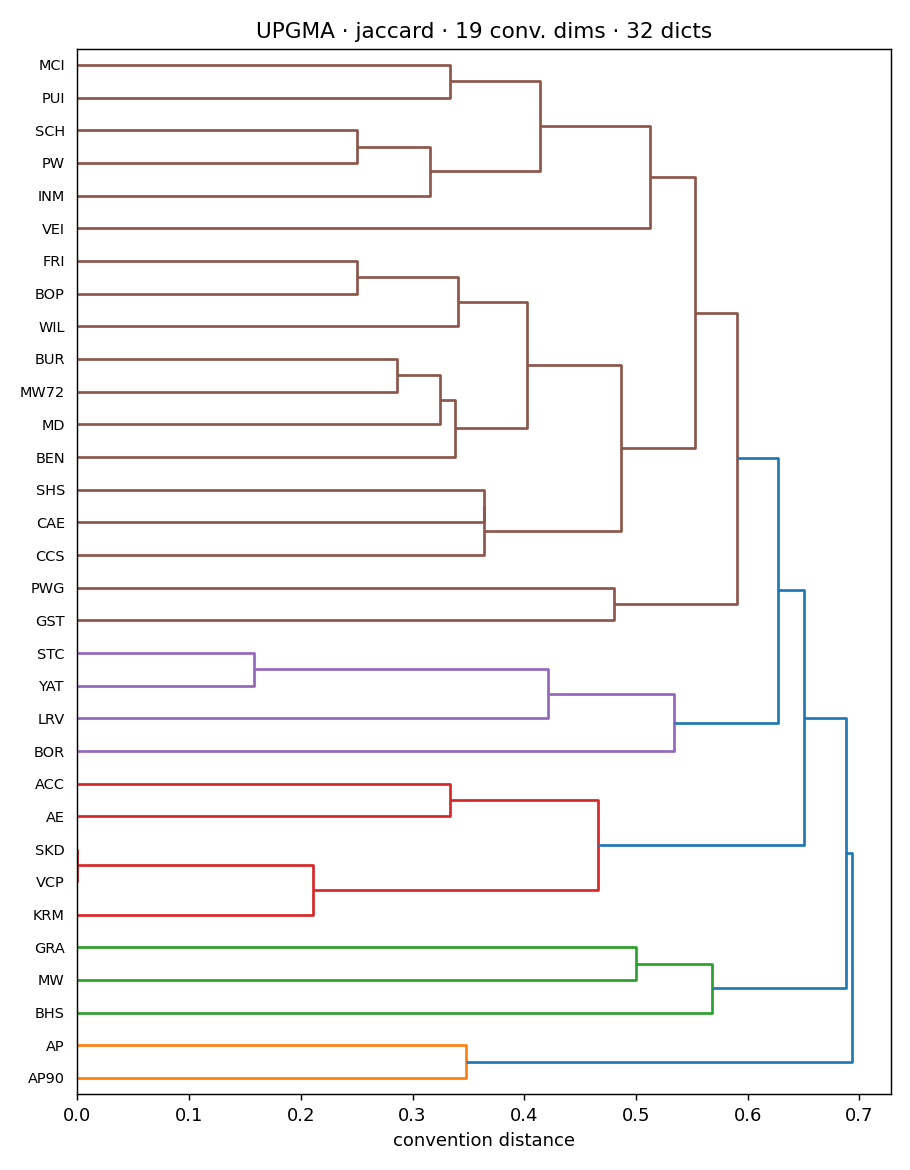
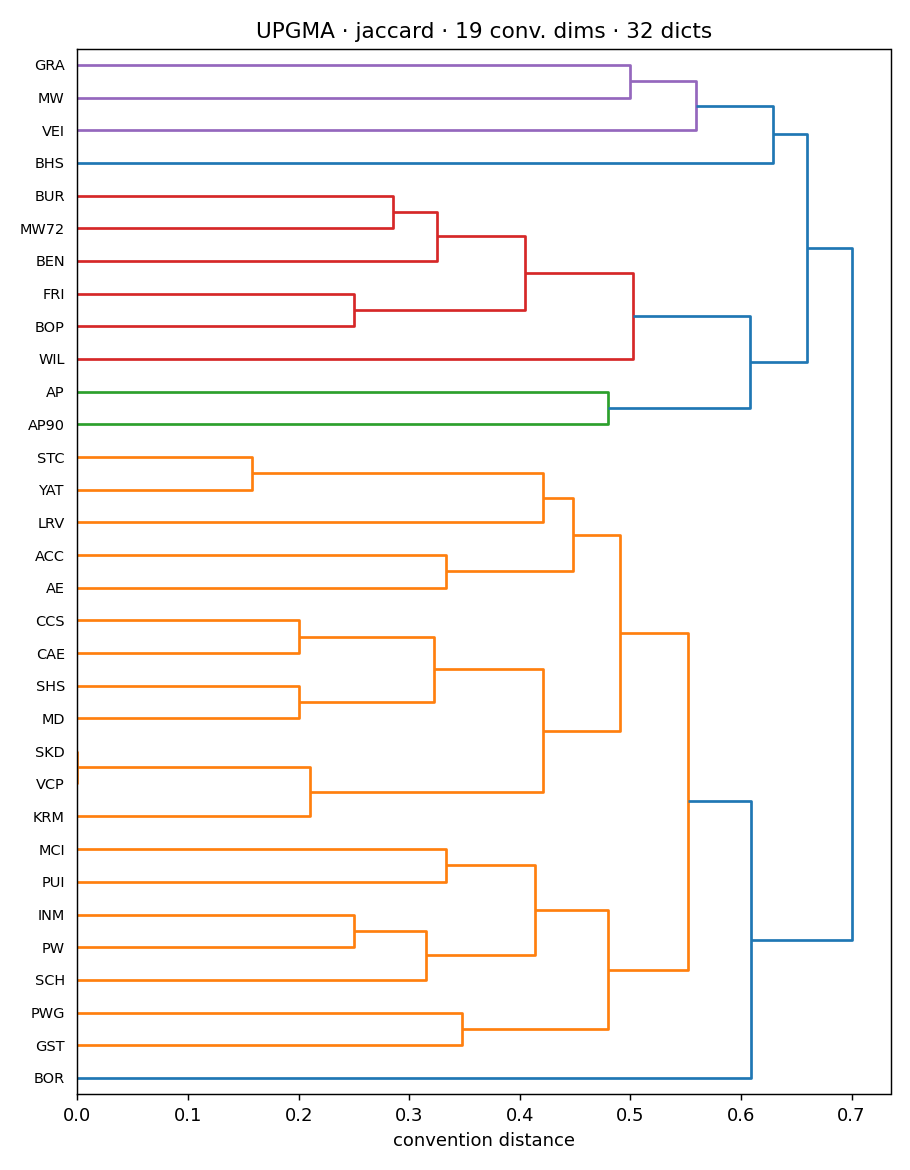
ai-wip: fix {%...%}-as-language-tag bug (dims 21/27); YAT-STC is real convergent minimalism
Chasing the YAT<->STC nearest-neighbour pairing (d=0.059) showed it is genuine editorial convergence (both are citation-free, etymology-free bilingual glossaries), not descent -- a homoplasy caveat for the paper. The chase also exposed a regex that counted {%...%} italic glosses as foreign-language tags, inflating loanword/source-language dims for every bilingual dict. Removed {%...%} from lang_tag; kept genuine <lang>/<gk>/<ar>/<zd> + cognate-language abbreviations. Re-ran: all 6 known lineages still cohere; Wilson tightened 0.37->0.30, Cappeller 0.22->0.11. Adds scripts/L0/diag_compare.py.

diff --git a/scripts/L0/diag_compare.py b/scripts/L0/diag_compare.py
@@ -1,0 +1,56 @@
+"""Diagnostic: dump raw extractor counters + sample entries for a few dicts,
+to judge whether a convention-distance pairing is real signal or weak-extraction
+collapse toward an 'everything-absent' profile."""
+
+import os
+import sys
+sys.path.insert(0, os.path.dirname(os.path.abspath(__file__)))
+sys.stdout.reconfigure(encoding="utf-8")
+
+from s2_fingerprint import extract, iter_entries, SRC_ROOT, CAP  # noqa
+
+CODES = ["WIL", "YAT", "STC", "PW", "AP90"]
+KEYS = ["n", "k2_sep_any", "k2_total", "num_arabic", "num_roman", "num_alpha",
+        "sep_semicolon", "sep_comma", "ls_entries", "ls_count", "etym_entries",
+        "lang_tag", "xref_explicit", "skt_tokens", "skt_accent", "panini",
+        "gram_abbrev", "gram_full", "gram_skt", "ind_ind", "subsense"]
+
+
+def main():
+    print(f"{'metric':16s}" + "".join(f"{c:>9s}" for c in CODES))
+    data = {}
+    for c in CODES:
+        path = os.path.join(SRC_ROOT, c.lower(), c.lower() + ".txt")
+        data[c] = extract(path)
+    for k in KEYS:
+        row = f"{k:16s}"
+        for c in CODES:
+            v = data[c][k]
+            n = max(data[c]["n"], 1)
+            # show as rate where it's a per-entry count
+            if k in ("n", "k2_total", "ls_count", "skt_tokens"):
+                row += f"{v:>9d}"
+            else:
+                row += f"{v/n:>9.3f}"
+        print(row)
+    print("\netym marker types per dict:")
+    for c in CODES:
+        print(f"  {c:5s} {sorted(data[c]['etym_markers'])}")
+
+    print("\n--- first 2 real entries (body) per dict ---")
+    for c in CODES:
+        path = os.path.join(SRC_ROOT, c.lower(), c.lower() + ".txt")
+        print(f"\n===== {c} =====")
+        shown = 0
+        for k1, k2, body in iter_entries(path, CAP):
+            b = body.strip()
+            if not b:
+                continue
+            print(f"[k1={k1} k2={k2}] {b[:220].replace(chr(10), ' ')}")
+            shown += 1
+            if shown >= 2:
+                break
+
+
+if __name__ == "__main__":
+    main()

diff --git a/scripts/L0/s2_fingerprint.py b/scripts/L0/s2_fingerprint.py
@@ -88,7 +88,11 @@ RX = {
     "etym_fr": re.compile(r"\bfr\.\s"),
     "etym_bracket": re.compile(r"\[\{#(.*?)#\}", re.S),
     "xref": re.compile(r"\bq\.v\.|<ab>\s*cf\.|\bcf\.\s|\b[Ss]ee\s\{#|\bs\.\s\{#"),
-    "lang_tag": re.compile(r"<lang\b|<gk>|<ar>|\{%[^%]+%\}|\b(?:Gk|Lat|Goth|Germ|Eng|Pers|Arab|Zd|Lith|Slav|Gr)\."),
+    # genuine source-language / cognate tagging only.
+    # NB: {%...%} is the universal *italic-gloss* convention (English/French/German/
+    # Latin target glosses) -- NOT a language tag -- so it must be excluded, else
+    # every bilingual glossary spuriously scores "loanword tagged".
+    "lang_tag": re.compile(r"<lang\b|<gk>|<ar>|<zd>|\b(?:Gk|Lat|Goth|Germ|Pers|Arab|Lith|Slav|Zend)\."),
     "ind_ind": re.compile(r"(?:<lex>\s*)?\bindecl?\."),
     "ind_inv": re.compile(r"\binv\."),
     "ind_nipata": re.compile(r"nipAta|\bnip\."),

diff --git a/.ai_state.md b/.ai_state.md
@@ -23,7 +23,11 @@
 - Note: KCH (Kochergina) is NOT in the 35-dict L0 subset.
 - **2026-05-27 preview validation**: built the first REAL convention cladogram (`scripts/L0/preview_tree.py` → `data/L0/preview/`) on the 19 informative dims × 32 dicts, missing-aware Gower + Jaccard, UPGMA + NJ. **All 6 known lineages came out tighter than the global mean (0.433)**: VCP/SKD=0.000, AP90/AP=0.210, CAE/CCS=0.222, Petersburg-German=0.353, Wilson=0.370, MW72/MW=0.389. Nearest-neighbour pairs recover AP90↔AP, VCP↔SKD, PW↔SCH, CAE↔SHS. So the 19 auto dims already carry real phylogenetic signal even before the Patel dims are added. Surprises to revisit after annotation: YAT↔STC (d=0.059), MW grouping with GRA, BHS near AP90. NOT the gated Stage 3/4 (preflight needs cells_unknown=0).
 
+- **2026-05-27 YAT↔STC chase**: investigated why YAT (Yates 1846 Skt-Eng, a Wilson digest) and STC (Stchoupak 1932 Skt-Fra, a Petersburg digest) were nearest convention-neighbours (d=0.059). Verdict: **genuine, not artifact** — both are minimalist bilingual glossaries (0% `<ls>` citations, 0% etymology, no cognate tags, abbreviated grammar, segmented headwords). **Methodological lesson: the convention fingerprint measures editorial REGISTER, which converges across unrelated lineages (homoplasy) — convention-distance ≠ descent.** This argues for combining it with the lemma-overlap Jaccard (which *does* capture descent: WIL→YAT was 91% containment in sanhw1). Needs a stated caveat in the paper. The chase also found + fixed a real bug: `{%...%}` italic-gloss markup was miscounted as a foreign-language tag, inflating dims 21 & 27 for every bilingual dict. Fixed; re-ran; 6/6 lineages still cohere; Wilson group tightened 0.37→0.30, Cappeller 0.22→0.11. Diagnostic kept at `scripts/L0/diag_compare.py`.
+- Known under-detection (not yet fixed): YAT lightly numbers senses with mid-line `1.` (e.g. `{#(aH)#} 1. {%m.%}`) which the arabic-numbering regex (line-start only) misses → YAT dim11=unnumbered is slightly off. Low impact.
+
 ## ✅ Completed (Recent only)
 
+- 2026-05-27: Chased YAT↔STC surprise → genuine convergent minimalism (not artifact); fixed `{%...%}`-as-lang-tag bug in dims 21/27; re-ran, lineages still cohere.
 - 2026-05-27: Built + validated the first real convention cladogram (preview). 6/6 known lineages recovered as cohesive. Outputs in data/L0/preview/.
 - 2026-05-27: Rebuilt + ran + validated Stage 2 real fingerprint extraction; committed `2247803`; EXECUTION_LOG.md appended with corrected block.